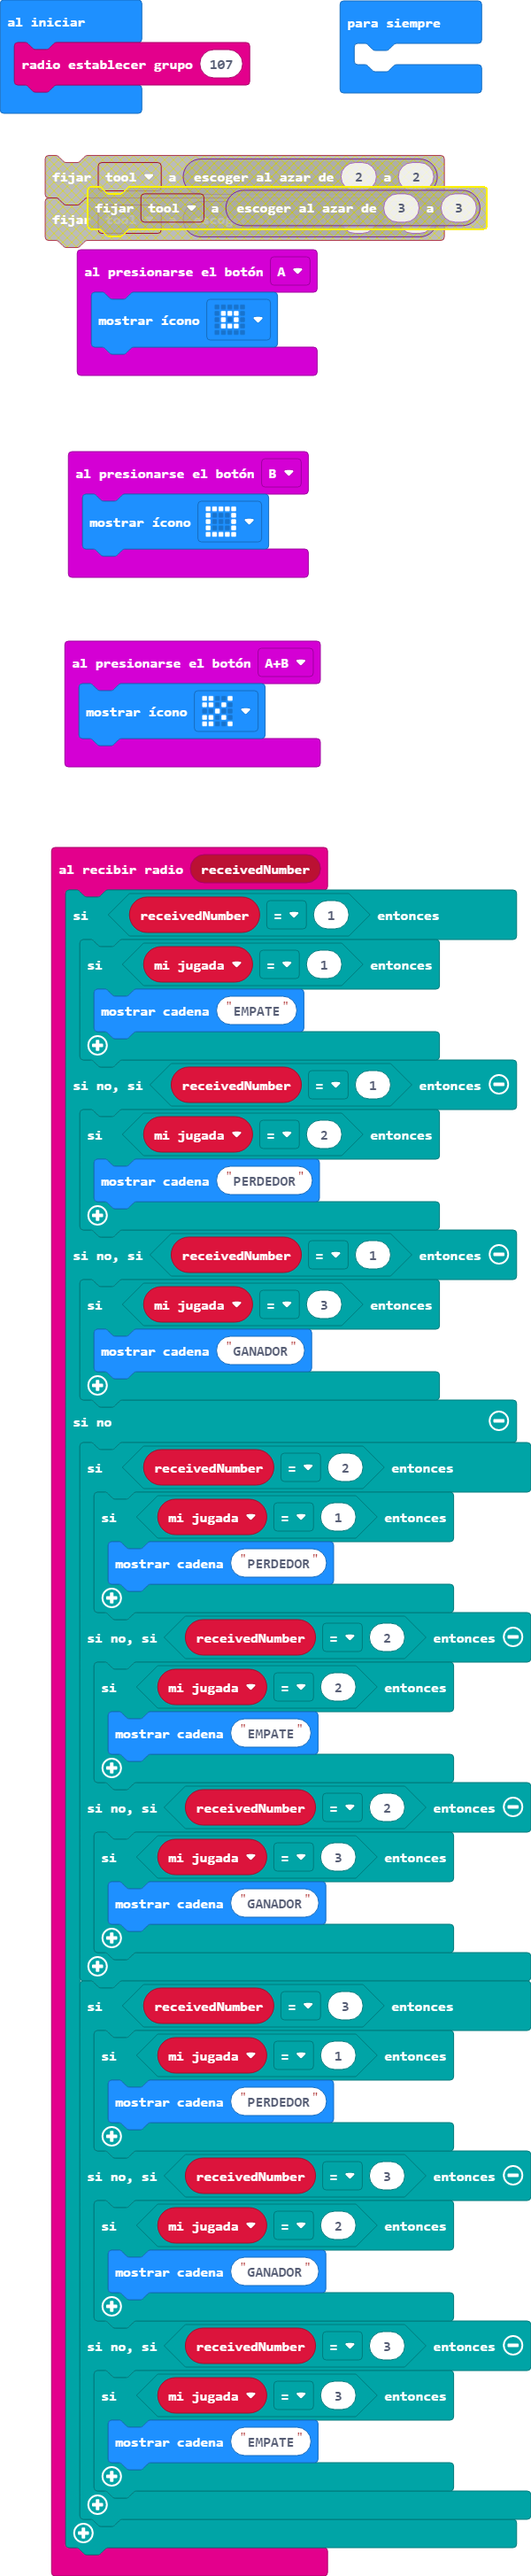
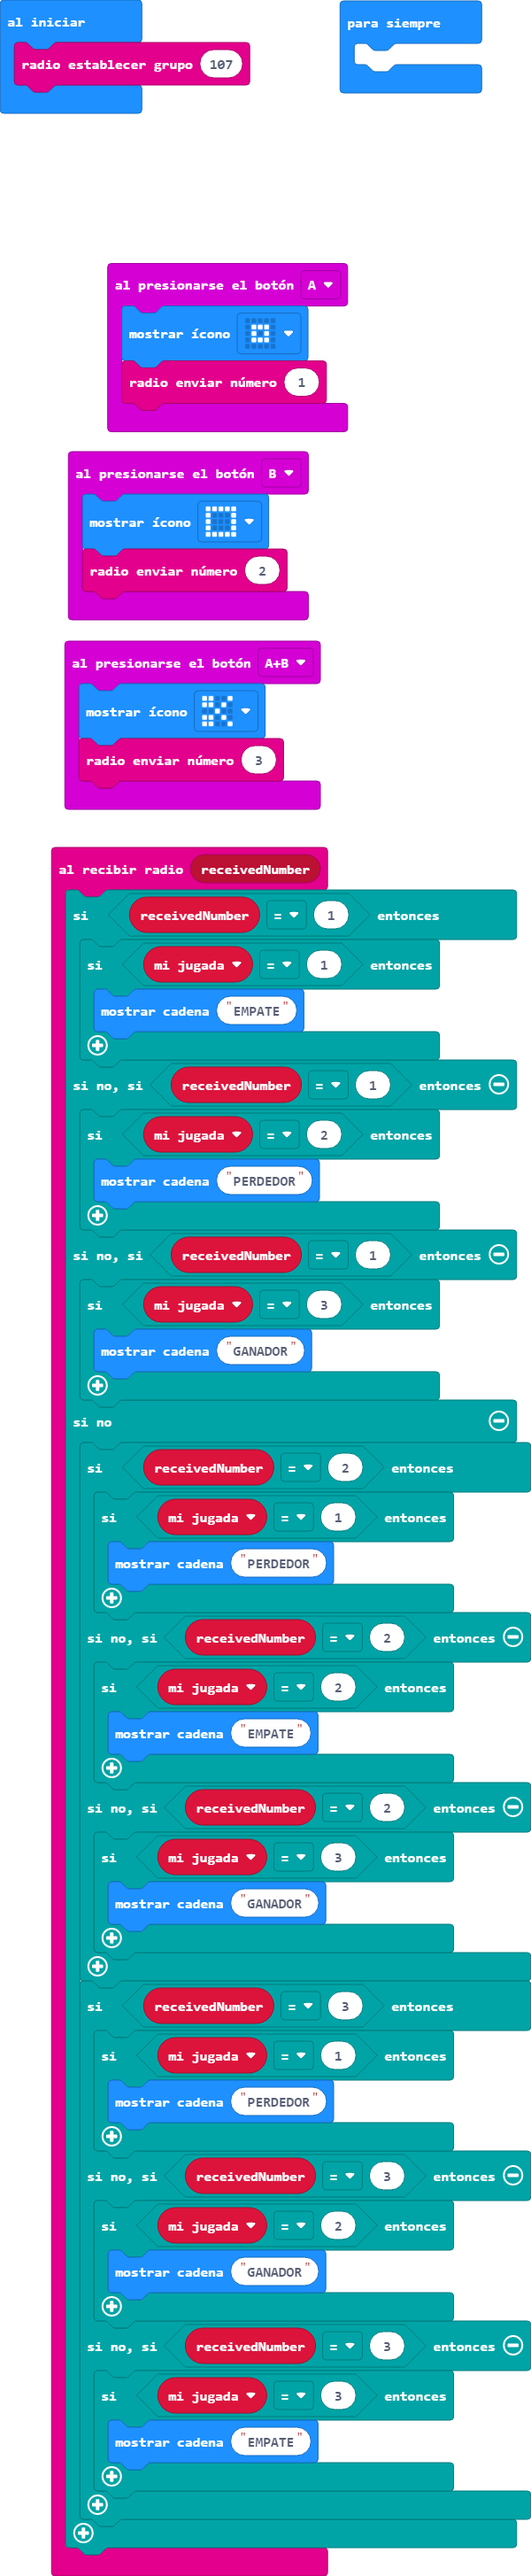
Actualizar main.blocks, main.ts

Changed region(s): [[0.06, 0.0619, 0.93, 0.2475], [0.12, 0.2784, 0.6, 0.3403]]

diff --git a/main.ts b/main.ts
@@ -43,12 +43,15 @@ radio.onReceivedNumber(function (receivedNumber) {
 })
 input.onButtonPressed(Button.A, function () {
     basic.showIcon(IconNames.SmallSquare)
+    radio.sendNumber(1)
 })
 input.onButtonPressed(Button.AB, function () {
     basic.showIcon(IconNames.Scissors)
+    radio.sendNumber(3)
 })
 input.onButtonPressed(Button.B, function () {
     basic.showIcon(IconNames.Square)
+    radio.sendNumber(2)
 })
 radio.setGroup(107)
 basic.forever(function () {
